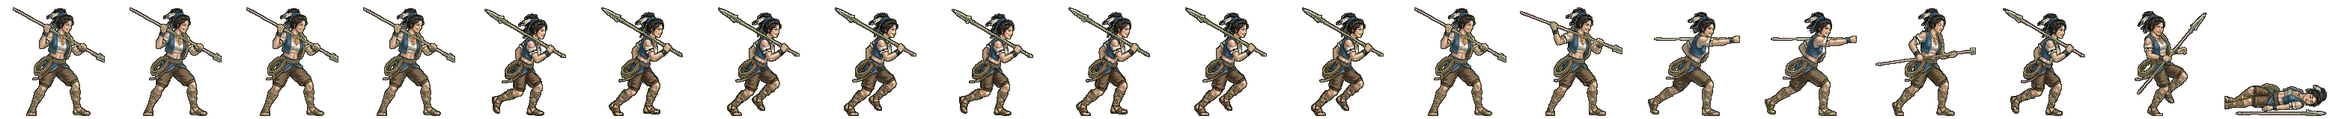
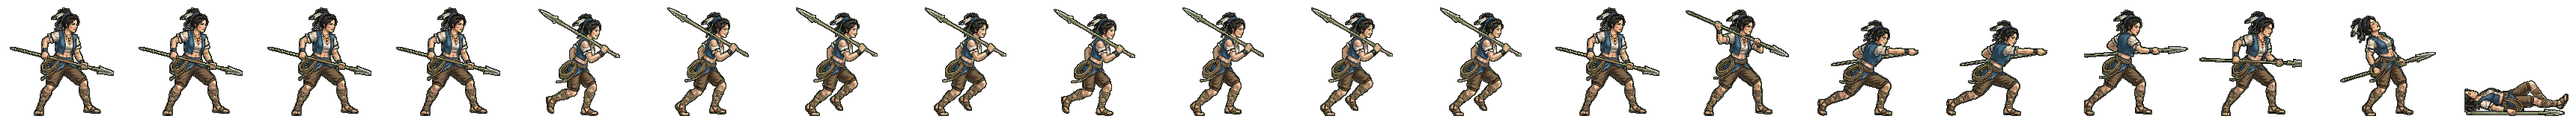
전투 띠 새로: bira 동작 띠 다시 — 형이 구움 (굽기 꾸러미 · 검수 1·3번) (형 11-08)
Claude-Session: https://claude.ai/code/session_01TRiuNAG8xSjdmjCFpc8Rd5

Changed region(s): [[0.0, 0.0625, 1.0, 0.9688]]

diff --git a/src/ui/realm/battle-strikes.ts b/src/ui/realm/battle-strikes.ts
@@ -143,7 +143,7 @@ const CONTACT: Readonly<Record<string, [number, number, number]>> = {
   'gen-haebi': [14, 0.87, 0.53], 'gen-heo': [14, 0.94, 0.46], 'gen-hyeokgeose': [14, 0.83, 0.94],
   'gen-hyeopbo': [14, .93, .21], 'gen-malgalgi': [14, 0.88, 0.28], 'gen-mari': [14, .98, .47],
   'gen-oi': [14, .98, .48], 'gen-onjo': [14, 0.83, 0.93], 'gen-soebi': [14, 0.80, 0.95],
-  'gen-soseono': [14, 0.92, 0.31], 'gen-maryeo': [14, 0.91, 0.79], 'gen-horselord': [14, 0.89, 0.25], 'gen-olddaeso': [14, 0.93, 0.91], 'gen-maro': [14, 0.97, 0.49], 'gen-gwaeyu': [14, 0.98, 0.71], 'gen-daemusin': [14, 0.91, 0.38], 'gen-tahae': [14, 0.91, 0.74], 'gen-ocheongan': [14, 0.82, 0.49], 'gen-yusugan': [14, 0.95, 0.70], 'gen-odogan': [14, 0.93, 0.28], 'gen-pidogan': [14, 0.94, 0.75], 'gen-yeodogan': [14, 0.93, 0.57], 'gen-adogan': [14, 0.95, 0.41], 'gen-musoe': [14, 0.94, 0.39], 'gen-suro': [14, 0.82, 0.53], 'gen-waechief': [14, 0.95, 0.68], 'gen-hojin': [14, 0.97, 0.64], 'gen-jita': [14, 0.94, 0.34], 'gen-guryema': [14, 0.89, 0.28], 'gen-jibaekho': [14, 0.97, 0.33], 'gen-sobeol': [14, 0.95, 0.33], 'gen-alpyeong': [14, 0.95, 0.54], 'gen-hogong': [14, 0.98, 0.27], 'gen-geumbawi': [14, 0.91, 0.92], 'gen-keundol': [14, 0.90, 0.68], 'gen-jinha': [14, 0.76, 0.93], 'gen-duman': [14, 0.97, 0.39], 'gen-gomok': [14, 0.94, 0.57], 'gen-hneoul': [14, 0.92, 0.27], 'gen-tneoul': [14, 0.84, 0.57], 'gen-sdallae': [14, 0.89, 0.29], 'gen-yucheongan': [14, 0.97, 0.64], 'gen-sincheongan': [14, 0.91, 0.71], 'gen-singwigan': [14, 0.91, 0.27], 'gen-mdallae': [14, 0.98, 0.30], 'gen-mulbeom': [14, 0.97, 0.36], 'gen-beomi': [14, 0.88, 0.43], 'gen-danbi': [14, 0.90, 0.30], 'gen-mulsae': [14, 0.93, 0.36], 'gen-darae': [14, 0.89, 0.29], 'gen-mir': [14, 0.91, 0.33], 'gen-wan': [14, 0.94, 0.30], 'gen-gom': [14, 0.94, 0.74], 'gen-sagong': [14, 0.79, 0.96], 'gen-halla': [14, 0.86, 0.46], 'gen-areum': [14, 0.86, 0.65], 'gen-dokmudeom': [14, 0.92, 0.29], 'gen-beom': [14, 0.98, 0.28], 'gen-baram': [14, 0.96, 0.24], 'gen-goeun': [14, 0.95, 0.66], 'gen-byeol': [14, 0.76, 0.96], 'gen-sinneoul': [14, 0.94, 0.33], 'gen-haesol': [14, 0.95, 0.39], 'gen-odi': [14, 0.95, 0.37], 'gen-irang': [14, 0.86, 0.30], 'gen-dalli': [14, 0.89, 0.32], 'gen-bakdal': [14, 0.94, 0.27], 'gen-noeul': [14, 0.88, 0.27], 'gen-maehwa': [14, 0.90, 0.31], 'gen-gaon': [14, 0.98, 0.48], 'gen-eomni': [14, 0.96, 0.42], 'gen-nuri': [14, 0.93, 0.66], 'gen-bira': [14, 0.88, 0.33], 'gen-gureum': [14, 0.98, 0.42],
+  'gen-soseono': [14, 0.92, 0.31], 'gen-maryeo': [14, 0.91, 0.79], 'gen-horselord': [14, 0.89, 0.25], 'gen-olddaeso': [14, 0.93, 0.91], 'gen-maro': [14, 0.97, 0.49], 'gen-gwaeyu': [14, 0.98, 0.71], 'gen-daemusin': [14, 0.91, 0.38], 'gen-tahae': [14, 0.91, 0.74], 'gen-ocheongan': [14, 0.82, 0.49], 'gen-yusugan': [14, 0.95, 0.70], 'gen-odogan': [14, 0.93, 0.28], 'gen-pidogan': [14, 0.94, 0.75], 'gen-yeodogan': [14, 0.93, 0.57], 'gen-adogan': [14, 0.95, 0.41], 'gen-musoe': [14, 0.94, 0.39], 'gen-suro': [14, 0.82, 0.53], 'gen-waechief': [14, 0.95, 0.68], 'gen-hojin': [14, 0.97, 0.64], 'gen-jita': [14, 0.94, 0.34], 'gen-guryema': [14, 0.89, 0.28], 'gen-jibaekho': [14, 0.97, 0.33], 'gen-sobeol': [14, 0.95, 0.33], 'gen-alpyeong': [14, 0.95, 0.54], 'gen-hogong': [14, 0.98, 0.27], 'gen-geumbawi': [14, 0.91, 0.92], 'gen-keundol': [14, 0.90, 0.68], 'gen-jinha': [14, 0.76, 0.93], 'gen-duman': [14, 0.97, 0.39], 'gen-gomok': [14, 0.94, 0.57], 'gen-hneoul': [14, 0.92, 0.27], 'gen-tneoul': [14, 0.84, 0.57], 'gen-sdallae': [14, 0.89, 0.29], 'gen-yucheongan': [14, 0.97, 0.64], 'gen-sincheongan': [14, 0.91, 0.71], 'gen-singwigan': [14, 0.91, 0.27], 'gen-mdallae': [14, 0.98, 0.30], 'gen-mulbeom': [14, 0.97, 0.36], 'gen-beomi': [14, 0.88, 0.43], 'gen-danbi': [14, 0.90, 0.30], 'gen-mulsae': [14, 0.93, 0.36], 'gen-darae': [14, 0.89, 0.29], 'gen-mir': [14, 0.91, 0.33], 'gen-wan': [14, 0.94, 0.30], 'gen-gom': [14, 0.94, 0.74], 'gen-sagong': [14, 0.79, 0.96], 'gen-halla': [14, 0.86, 0.46], 'gen-areum': [14, 0.86, 0.65], 'gen-dokmudeom': [14, 0.92, 0.29], 'gen-beom': [14, 0.98, 0.28], 'gen-baram': [14, 0.96, 0.24], 'gen-goeun': [14, 0.95, 0.66], 'gen-byeol': [14, 0.76, 0.96], 'gen-sinneoul': [14, 0.94, 0.33], 'gen-haesol': [14, 0.95, 0.39], 'gen-odi': [14, 0.95, 0.37], 'gen-irang': [14, 0.86, 0.30], 'gen-dalli': [14, 0.89, 0.32], 'gen-bakdal': [14, 0.94, 0.27], 'gen-noeul': [14, 0.88, 0.27], 'gen-maehwa': [14, 0.90, 0.31], 'gen-gaon': [14, 0.98, 0.48], 'gen-eomni': [14, 0.96, 0.42], 'gen-nuri': [14, 0.93, 0.66], 'gen-bira': [14, 0.88, 0.42], 'gen-gureum': [14, 0.98, 0.42],
   'gen-biryu': [14, 0.90, 0.35], 'gen-geumha': [14, 0.94, 0.61], 'gen-geota': [14, 0.86, 0.47], 'gen-soebo': [14, 0.87, 0.57],
   'gen-gaennae': [14, 249 / 264, 47 / 160],
   'gen-budeul': [14, 266 / 280, 51 / 160],

diff --git a/src/realm/data/art.ts b/src/realm/data/art.ts
@@ -516,7 +516,7 @@ export const GEN_ANIM: Readonly<Partial<Record<string, { ar: number; body: numbe
   gaon: { ar: 151 / 160, body: 0.900 }, // 11-08 초상대로 다시 (형: 「투구 쓰고 원본과 다르다」 · 제미나이 걷기 4×2 + 동작 4×2 → 20컷 · assets_src/realm/gemini/generals2) · 11-08 처음 · 가온 동작 띠 다시 — 창을 두 손으로 잡고 찌른다 (흰 깃털 조각 없앰 · 4번 칸은 창이 칸 밖이라 3번으로 · 검수 1번)
   eomni: { ar: 159 / 160, body: 0.900 }, // 11-08 초상대로 다시 (형: 「투구 쓰고 원본과 다르다」 · 제미나이 걷기 4×2 + 동작 4×2 → 20컷 · assets_src/realm/gemini/generals2) · 11-08 처음 · 땋은 머리·검은 곰 털 망토·짧은 흰 윗옷·이빨 목걸이·쇠 창 찌르기 · 걷기는 창을 어깨에 멘 아랫줄만
   nuri: { ar: 170 / 160, body: 0.894 }, // 11-08 초상대로 다시 (형: 「투구 쓰고 원본과 다르다」 · 제미나이 걷기 4×2 + 동작 4×2 → 20컷 · assets_src/realm/gemini/generals2) · 11-08 처음 · 구가 누리 동작 다시 — 창을 두 손으로 잡고 아래로 찌른다 (빈 주먹·창날 없는 찌르기 고침 · 제미나이 u/2 · 11-09 띠 검수)
-  bira: { ar: 156 / 160, body: 0.900 }, // 11-08 초상대로 다시 (형: 「투구 쓰고 원본과 다르다」 · 제미나이 걷기 4×2 + 동작 4×2 → 20컷 · assets_src/realm/gemini/generals2) · 11-08 처음 · 푸른 깃 머리띠·푸른 짧은 조끼·밧줄 타래·조개 목걸이·작살 창 찌르기 · 걷기는 아랫줄만
+  bira: { ar: 172 / 160, body: 0.900 }, // 11-08 초상대로 다시 (형: 「투구 쓰고 원본과 다르다」 · 제미나이 걷기 4×2 + 동작 4×2 → 20컷 · assets_src/realm/gemini/generals2) · 11-08 처음 · bira 동작 띠 다시 — 형이 구움 (굽기 꾸러미 · 검수 1·3번)
   soenun: { ar: 280 / 160, body: 0.9375 }, // 11-08 쇠눈 · 제미나이 u/2 2×2(겨눔·찌르기·거둠·피격) + 새 대화 쓰러짐 · 갯내 4실보행 하체(짙은 바지 · 걷는 동안 쇠 정강이받이는 장화로 보인다) · 창 자루는 걷기에도 남긴다
   odi: { ar: 155 / 160, body: 0.906 }, // 11-08 초상대로 다시 (형: 「투구 쓰고 원본과 다르다」 · 제미나이 걷기 4×2 + 동작 4×2 → 20컷 · assets_src/realm/gemini/generals2) · 11-08 처음 · 오디 동작 띠 다시 — 창 가운데를 두 손으로 잡고 창날이 보이게 찌른다 (SPEAR 절 · 검수 1번)
   haesol: { ar: 167 / 160, body: 0.906 }, // 11-08 초상대로 다시 (형: 「투구 쓰고 원본과 다르다」 · 제미나이 걷기 4×2 + 동작 4×2 → 20컷 · assets_src/realm/gemini/generals2) · 11-08 처음 · haesol 동작 띠 다시 — 형이 구움 (굽기 꾸러미 · 검수 1·3번)
